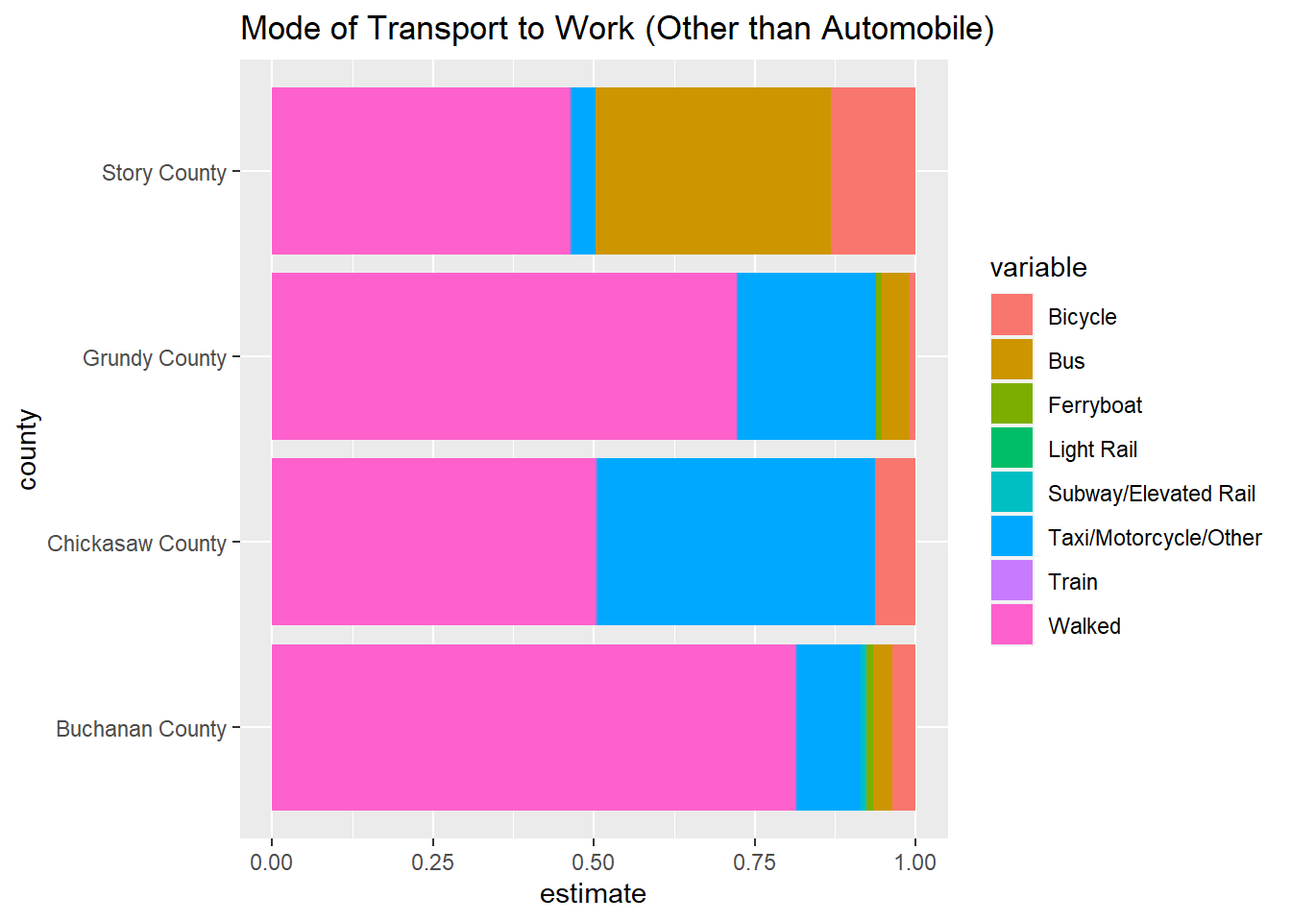
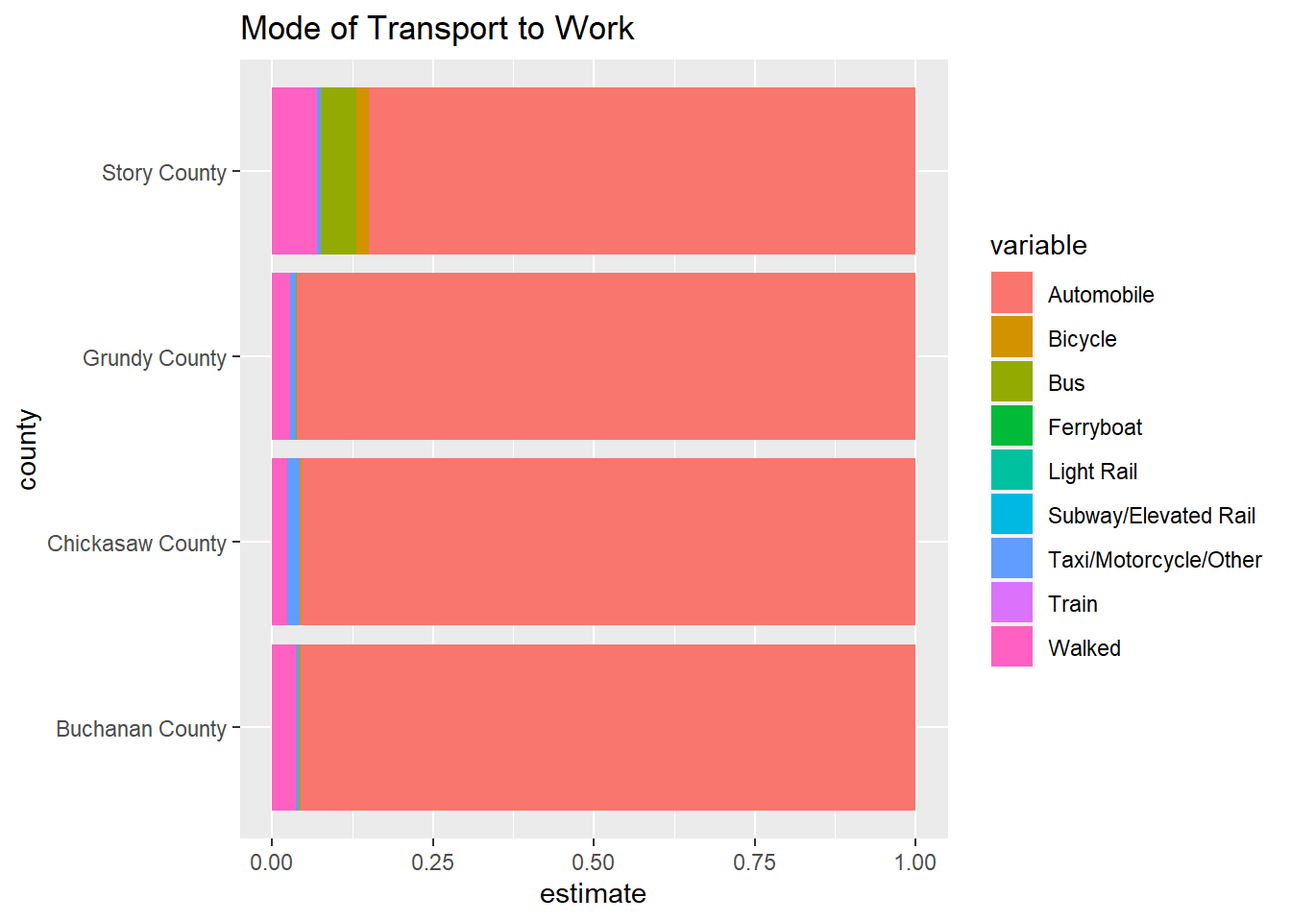
yet another commit

diff --git a/docs/posts/Aaron-Null-DSPG-Week-2/Week-One.html b/docs/posts/Aaron-Null-DSPG-Week-2/Week-One.html
@@ -476,301 +476,68 @@ This message is displayed once per session.</code></pre>
 <p>This table shows the reported Hispanic/Latino population for 2020 for each of the 4 counties, along with percentages.</p>
 <p>I decided to turn my attention to Iowa at large and look at poverty rates.</p>
 <div class="cell">
-<div class="sourceCode cell-code" id="cb36"><pre class="sourceCode r code-with-copy"><code class="sourceCode r"><span id="cb36-1"><a href="#cb36-1" aria-hidden="true" tabindex="-1"></a><span class="co"># API Call</span></span>
-<span id="cb36-2"><a href="#cb36-2" aria-hidden="true" tabindex="-1"></a>poverty <span class="ot">&lt;-</span> <span class="fu">get_acs</span>(<span class="at">geography =</span> <span class="st">"block group"</span>,</span>
-<span id="cb36-3"><a href="#cb36-3" aria-hidden="true" tabindex="-1"></a>                       <span class="at">variables =</span> (<span class="st">"Poverty_income_individuals"</span> <span class="ot">=</span> <span class="st">"B17021_002"</span>),</span>
-<span id="cb36-4"><a href="#cb36-4" aria-hidden="true" tabindex="-1"></a>                       <span class="at">state =</span> <span class="st">"IA"</span>,</span>
-<span id="cb36-5"><a href="#cb36-5" aria-hidden="true" tabindex="-1"></a>                       <span class="at">year =</span> <span class="dv">2021</span>,</span>
-<span id="cb36-6"><a href="#cb36-6" aria-hidden="true" tabindex="-1"></a>                       <span class="at">survey =</span> <span class="st">"acs5"</span>,</span>
-<span id="cb36-7"><a href="#cb36-7" aria-hidden="true" tabindex="-1"></a>                       <span class="at">geometry =</span> <span class="cn">TRUE</span>)</span></code><button title="Copy to Clipboard" class="code-copy-button"><i class="bi"></i></button></pre></div>
-<div class="cell-output cell-output-stderr">
-<pre><code>Getting data from the 2017-2021 5-year ACS</code></pre>
-</div>
-<div class="cell-output cell-output-stderr">
-<pre><code>Downloading feature geometry from the Census website.  To cache shapefiles for use in future sessions, set `options(tigris_use_cache = TRUE)`.</code></pre>
-</div>
-<div class="cell-output cell-output-stdout">
-<pre><code>
-  |                                                                            
-  |                                                                      |   0%
-  |                                                                            
-  |=                                                                     |   2%
-  |                                                                            
-  |==                                                                    |   3%
-  |                                                                            
-  |===                                                                   |   5%
-  |                                                                            
-  |=====                                                                 |   6%
-  |                                                                            
-  |=====                                                                 |   7%
-  |                                                                            
-  |======                                                                |   9%
-  |                                                                            
-  |=======                                                               |  10%
-  |                                                                            
-  |========                                                              |  11%
-  |                                                                            
-  |=========                                                             |  12%
-  |                                                                            
-  |==========                                                            |  14%
-  |                                                                            
-  |===========                                                           |  15%
-  |                                                                            
-  |===========                                                           |  16%
-  |                                                                            
-  |============                                                          |  18%
-  |                                                                            
-  |=============                                                         |  19%
-  |                                                                            
-  |==============                                                        |  20%
-  |                                                                            
-  |===============                                                       |  22%
-  |                                                                            
-  |================                                                      |  23%
-  |                                                                            
-  |=================                                                     |  24%
-  |                                                                            
-  |=================                                                     |  25%
-  |                                                                            
-  |==================                                                    |  26%
-  |                                                                            
-  |===================                                                   |  28%
-  |                                                                            
-  |====================                                                  |  28%
-  |                                                                            
-  |=====================                                                 |  30%
-  |                                                                            
-  |======================                                                |  32%
-  |                                                                            
-  |=======================                                               |  32%
-  |                                                                            
-  |========================                                              |  34%
-  |                                                                            
-  |=========================                                             |  35%
-  |                                                                            
-  |=========================                                             |  36%
-  |                                                                            
-  |==========================                                            |  37%
-  |                                                                            
-  |=============================                                         |  41%
-  |                                                                            
-  |==============================                                        |  42%
-  |                                                                            
-  |===============================                                       |  45%
-  |                                                                            
-  |================================                                      |  46%
-  |                                                                            
-  |=================================                                     |  48%
-  |                                                                            
-  |==================================                                    |  48%
-  |                                                                            
-  |==================================                                    |  49%
-  |                                                                            
-  |====================================                                  |  51%
-  |                                                                            
-  |=====================================                                 |  52%
-  |                                                                            
-  |=====================================                                 |  53%
-  |                                                                            
-  |======================================                                |  55%
-  |                                                                            
-  |========================================                              |  57%
-  |                                                                            
-  |=========================================                             |  59%
-  |                                                                            
-  |===========================================                           |  61%
-  |                                                                            
-  |===========================================                           |  62%
-  |                                                                            
-  |============================================                          |  63%
-  |                                                                            
-  |=============================================                         |  65%
-  |                                                                            
-  |==============================================                        |  65%
-  |                                                                            
-  |===============================================                       |  67%
-  |                                                                            
-  |================================================                      |  69%
-  |                                                                            
-  |=================================================                     |  69%
-  |                                                                            
-  |==================================================                    |  71%
-  |                                                                            
-  |===================================================                   |  72%
-  |                                                                            
-  |===================================================                   |  73%
-  |                                                                            
-  |====================================================                  |  74%
-  |                                                                            
-  |=====================================================                 |  75%
-  |                                                                            
-  |======================================================                |  77%
-  |                                                                            
-  |======================================================                |  78%
-  |                                                                            
-  |=========================================================             |  82%
-  |                                                                            
-  |==========================================================            |  83%
-  |                                                                            
-  |===========================================================           |  85%
-  |                                                                            
-  |============================================================          |  85%
-  |                                                                            
-  |============================================================          |  86%
-  |                                                                            
-  |=============================================================         |  88%
-  |                                                                            
-  |===============================================================       |  89%
-  |                                                                            
-  |===============================================================       |  90%
-  |                                                                            
-  |================================================================      |  92%
-  |                                                                            
-  |==================================================================    |  94%
-  |                                                                            
-  |===================================================================   |  96%
-  |                                                                            
-  |====================================================================  |  97%
-  |                                                                            
-  |===================================================================== |  99%
-  |                                                                            
-  |======================================================================| 100%</code></pre>
-</div>
-<div class="sourceCode cell-code" id="cb40"><pre class="sourceCode r code-with-copy"><code class="sourceCode r"><span id="cb40-1"><a href="#cb40-1" aria-hidden="true" tabindex="-1"></a><span class="co"># Plot</span></span>
-<span id="cb40-2"><a href="#cb40-2" aria-hidden="true" tabindex="-1"></a><span class="fu">ggplot</span>(poverty) <span class="sc">+</span></span>
-<span id="cb40-3"><a href="#cb40-3" aria-hidden="true" tabindex="-1"></a>  <span class="fu">geom_sf</span>(<span class="fu">aes</span>(<span class="at">fill =</span> estimate)) <span class="sc">+</span> <span class="co"># Fill the counties by population density</span></span>
-<span id="cb40-4"><a href="#cb40-4" aria-hidden="true" tabindex="-1"></a>  <span class="fu">scale_fill_distiller</span>(<span class="at">palette =</span> <span class="st">"YlOrBr"</span>) <span class="sc">+</span> <span class="co"># Use a color-blind friendly palette</span></span>
-<span id="cb40-5"><a href="#cb40-5" aria-hidden="true" tabindex="-1"></a>  <span class="fu">labs</span>(<span class="at">title =</span> <span class="st">"Individuals Below the Poverty Line in Iowa"</span>,</span>
-<span id="cb40-6"><a href="#cb40-6" aria-hidden="true" tabindex="-1"></a>       <span class="at">subtitle =</span> <span class="st">"Source: American Community Survey 2021"</span>,</span>
-<span id="cb40-7"><a href="#cb40-7" aria-hidden="true" tabindex="-1"></a>       <span class="at">fill =</span> <span class="st">"People per Block Group"</span>) <span class="sc">+</span> <span class="co"># Add labels</span></span>
-<span id="cb40-8"><a href="#cb40-8" aria-hidden="true" tabindex="-1"></a>  <span class="fu">theme_minimal</span>()</span></code><button title="Copy to Clipboard" class="code-copy-button"><i class="bi"></i></button></pre></div>
+<div class="sourceCode cell-code" id="cb36"><pre class="sourceCode r code-with-copy"><code class="sourceCode r"><span id="cb36-1"><a href="#cb36-1" aria-hidden="true" tabindex="-1"></a><span class="co"># Plot</span></span>
+<span id="cb36-2"><a href="#cb36-2" aria-hidden="true" tabindex="-1"></a><span class="fu">ggplot</span>(poverty) <span class="sc">+</span></span>
+<span id="cb36-3"><a href="#cb36-3" aria-hidden="true" tabindex="-1"></a>  <span class="fu">geom_sf</span>(<span class="fu">aes</span>(<span class="at">fill =</span> estimate)) <span class="sc">+</span> <span class="co"># Fill the counties by population density</span></span>
+<span id="cb36-4"><a href="#cb36-4" aria-hidden="true" tabindex="-1"></a>  <span class="fu">scale_fill_distiller</span>(<span class="at">palette =</span> <span class="st">"YlOrBr"</span>) <span class="sc">+</span> <span class="co"># Use a color-blind friendly palette</span></span>
+<span id="cb36-5"><a href="#cb36-5" aria-hidden="true" tabindex="-1"></a>  <span class="fu">labs</span>(<span class="at">title =</span> <span class="st">"Individuals Below the Poverty Line in Iowa"</span>,</span>
+<span id="cb36-6"><a href="#cb36-6" aria-hidden="true" tabindex="-1"></a>       <span class="at">subtitle =</span> <span class="st">"Source: American Community Survey 2021"</span>,</span>
+<span id="cb36-7"><a href="#cb36-7" aria-hidden="true" tabindex="-1"></a>       <span class="at">fill =</span> <span class="st">"People per Block Group"</span>) <span class="sc">+</span> <span class="co"># Add labels</span></span>
+<span id="cb36-8"><a href="#cb36-8" aria-hidden="true" tabindex="-1"></a>  <span class="fu">theme_minimal</span>()</span></code><button title="Copy to Clipboard" class="code-copy-button"><i class="bi"></i></button></pre></div>
 <div class="cell-output-display">
-<p><img src="Week-One_files/figure-html/unnamed-chunk-14-1.png" class="img-fluid" width="672"></p>
+<p><img src="Week-One_files/figure-html/unnamed-chunk-15-1.png" class="img-fluid" width="672"></p>
 </div>
 </div>
 <p>This is a plot of the number of individuals per block group who earned low enough wages over 12 months to place them below the poverty line in 2021. The rate differs more or less uniformly around the state save for a few key regions.</p>
 <p>Finally, I looked at the reported mode of transport to work for each of the four counties. A similar stacked proportional bar graph was made to the ones for language and race above.</p>
 <div class="cell">
-<div class="sourceCode cell-code" id="cb41"><pre class="sourceCode r code-with-copy"><code class="sourceCode r"><span id="cb41-1"><a href="#cb41-1" aria-hidden="true" tabindex="-1"></a><span class="co"># Compiled variable list for mode of transport</span></span>
-<span id="cb41-2"><a href="#cb41-2" aria-hidden="true" tabindex="-1"></a>transportList <span class="ot">=</span> <span class="fu">c</span>(<span class="st">"Automobile"</span> <span class="ot">=</span> <span class="st">"B08006_002"</span>,<span class="st">"Bus"</span> <span class="ot">=</span> <span class="st">"B08006_009"</span>, <span class="st">"Subway/Elevated Rail"</span> <span class="ot">=</span> <span class="st">"B08006_010"</span>, <span class="st">"Train"</span> <span class="ot">=</span> <span class="st">"B08006_011"</span>,<span class="st">"Light Rail"</span> <span class="ot">=</span> <span class="st">"B08006_012"</span>,<span class="st">"Ferryboat"</span> <span class="ot">=</span> <span class="st">"B08006_013"</span>, <span class="st">"Bicycle"</span> <span class="ot">=</span> <span class="st">"B08006_014"</span>,<span class="st">"Walked"</span> <span class="ot">=</span> <span class="st">"B08006_015"</span>, <span class="st">"Taxi/Motorcycle/Other"</span> <span class="ot">=</span> <span class="st">"B08006_016"</span>)</span>
-<span id="cb41-3"><a href="#cb41-3" aria-hidden="true" tabindex="-1"></a></span>
-<span id="cb41-4"><a href="#cb41-4" aria-hidden="true" tabindex="-1"></a><span class="co"># API Call</span></span>
-<span id="cb41-5"><a href="#cb41-5" aria-hidden="true" tabindex="-1"></a></span>
-<span id="cb41-6"><a href="#cb41-6" aria-hidden="true" tabindex="-1"></a>transport_counties <span class="ot">&lt;-</span> <span class="fu">get_acs</span>(<span class="at">geography =</span> <span class="st">"tract"</span>,</span>
-<span id="cb41-7"><a href="#cb41-7" aria-hidden="true" tabindex="-1"></a>                       <span class="at">variables =</span> transportList,</span>
-<span id="cb41-8"><a href="#cb41-8" aria-hidden="true" tabindex="-1"></a>                       <span class="at">state =</span> <span class="st">"IA"</span>,</span>
-<span id="cb41-9"><a href="#cb41-9" aria-hidden="true" tabindex="-1"></a>                       <span class="at">year =</span> <span class="dv">2021</span>,</span>
-<span id="cb41-10"><a href="#cb41-10" aria-hidden="true" tabindex="-1"></a>                       <span class="at">survey =</span> <span class="st">"acs5"</span>,</span>
-<span id="cb41-11"><a href="#cb41-11" aria-hidden="true" tabindex="-1"></a>                       <span class="at">geometry =</span> <span class="cn">TRUE</span>)</span></code><button title="Copy to Clipboard" class="code-copy-button"><i class="bi"></i></button></pre></div>
+<div class="sourceCode cell-code" id="cb37"><pre class="sourceCode r code-with-copy"><code class="sourceCode r"><span id="cb37-1"><a href="#cb37-1" aria-hidden="true" tabindex="-1"></a><span class="co"># Compiled variable list for mode of transport</span></span>
+<span id="cb37-2"><a href="#cb37-2" aria-hidden="true" tabindex="-1"></a>transportList <span class="ot">=</span> <span class="fu">c</span>(<span class="st">"Automobile"</span> <span class="ot">=</span> <span class="st">"B08006_002"</span>,<span class="st">"Bus"</span> <span class="ot">=</span> <span class="st">"B08006_009"</span>, <span class="st">"Subway/Elevated Rail"</span> <span class="ot">=</span> <span class="st">"B08006_010"</span>, <span class="st">"Train"</span> <span class="ot">=</span> <span class="st">"B08006_011"</span>,<span class="st">"Light Rail"</span> <span class="ot">=</span> <span class="st">"B08006_012"</span>,<span class="st">"Ferryboat"</span> <span class="ot">=</span> <span class="st">"B08006_013"</span>, <span class="st">"Bicycle"</span> <span class="ot">=</span> <span class="st">"B08006_014"</span>,<span class="st">"Walked"</span> <span class="ot">=</span> <span class="st">"B08006_015"</span>, <span class="st">"Taxi/Motorcycle/Other"</span> <span class="ot">=</span> <span class="st">"B08006_016"</span>)</span>
+<span id="cb37-3"><a href="#cb37-3" aria-hidden="true" tabindex="-1"></a></span>
+<span id="cb37-4"><a href="#cb37-4" aria-hidden="true" tabindex="-1"></a><span class="co"># API Call</span></span>
+<span id="cb37-5"><a href="#cb37-5" aria-hidden="true" tabindex="-1"></a></span>
+<span id="cb37-6"><a href="#cb37-6" aria-hidden="true" tabindex="-1"></a>transport_counties <span class="ot">&lt;-</span> <span class="fu">get_acs</span>(<span class="at">geography =</span> <span class="st">"tract"</span>,</span>
+<span id="cb37-7"><a href="#cb37-7" aria-hidden="true" tabindex="-1"></a>                       <span class="at">variables =</span> transportList,</span>
+<span id="cb37-8"><a href="#cb37-8" aria-hidden="true" tabindex="-1"></a>                       <span class="at">state =</span> <span class="st">"IA"</span>,</span>
+<span id="cb37-9"><a href="#cb37-9" aria-hidden="true" tabindex="-1"></a>                       <span class="at">year =</span> <span class="dv">2021</span>,</span>
+<span id="cb37-10"><a href="#cb37-10" aria-hidden="true" tabindex="-1"></a>                       <span class="at">survey =</span> <span class="st">"acs5"</span>)</span></code><button title="Copy to Clipboard" class="code-copy-button"><i class="bi"></i></button></pre></div>
 <div class="cell-output cell-output-stderr">
 <pre><code>Getting data from the 2017-2021 5-year ACS</code></pre>
 </div>
-<div class="cell-output cell-output-stderr">
-<pre><code>Downloading feature geometry from the Census website.  To cache shapefiles for use in future sessions, set `options(tigris_use_cache = TRUE)`.</code></pre>
-</div>
-<div class="cell-output cell-output-stdout">
-<pre><code>
-  |                                                                            
-  |                                                                      |   0%
-  |                                                                            
-  |==                                                                    |   3%
-  |                                                                            
-  |=====                                                                 |   6%
-  |                                                                            
-  |======                                                                |   9%
-  |                                                                            
-  |=========                                                             |  13%
-  |                                                                            
-  |============                                                          |  17%
-  |                                                                            
-  |==============                                                        |  19%
-  |                                                                            
-  |================                                                      |  23%
-  |                                                                            
-  |==================                                                    |  25%
-  |                                                                            
-  |====================                                                  |  28%
-  |                                                                            
-  |=====================                                                 |  30%
-  |                                                                            
-  |=======================                                               |  32%
-  |                                                                            
-  |=======================                                               |  33%
-  |                                                                            
-  |=========================                                             |  36%
-  |                                                                            
-  |===========================                                           |  38%
-  |                                                                            
-  |============================                                          |  40%
-  |                                                                            
-  |==============================                                        |  42%
-  |                                                                            
-  |================================                                      |  45%
-  |                                                                            
-  |=================================                                     |  46%
-  |                                                                            
-  |====================================                                  |  52%
-  |                                                                            
-  |=======================================                               |  56%
-  |                                                                            
-  |=========================================                             |  59%
-  |                                                                            
-  |===========================================                           |  61%
-  |                                                                            
-  |============================================                          |  63%
-  |                                                                            
-  |=============================================                         |  65%
-  |                                                                            
-  |===============================================                       |  67%
-  |                                                                            
-  |=================================================                     |  70%
-  |                                                                            
-  |====================================================                  |  74%
-  |                                                                            
-  |========================================================              |  80%
-  |                                                                            
-  |=========================================================             |  81%
-  |                                                                            
-  |===============================================================       |  91%
-  |                                                                            
-  |====================================================================  |  97%
-  |                                                                            
-  |======================================================================| 100%</code></pre>
-</div>
-<div class="sourceCode cell-code" id="cb45"><pre class="sourceCode r code-with-copy"><code class="sourceCode r"><span id="cb45-1"><a href="#cb45-1" aria-hidden="true" tabindex="-1"></a><span class="co"># Subset for relevant counties using str_detect()</span></span>
-<span id="cb45-2"><a href="#cb45-2" aria-hidden="true" tabindex="-1"></a>transport_counties2 <span class="ot">&lt;-</span> transport_counties <span class="sc">%&gt;%</span></span>
-<span id="cb45-3"><a href="#cb45-3" aria-hidden="true" tabindex="-1"></a>  <span class="fu">filter</span>(<span class="fu">str_detect</span>(NAME, <span class="st">"Buchanan|Chickasaw|Grundy|Story"</span>))</span>
-<span id="cb45-4"><a href="#cb45-4" aria-hidden="true" tabindex="-1"></a></span>
-<span id="cb45-5"><a href="#cb45-5" aria-hidden="true" tabindex="-1"></a><span class="co"># Mutating 'county' column and labeling for each tract observation</span></span>
-<span id="cb45-6"><a href="#cb45-6" aria-hidden="true" tabindex="-1"></a>transport_small <span class="ot">&lt;-</span> transport_counties2 <span class="sc">%&gt;%</span></span>
-<span id="cb45-7"><a href="#cb45-7" aria-hidden="true" tabindex="-1"></a>  <span class="fu">mutate</span>(<span class="at">county =</span> <span class="fu">ifelse</span>(<span class="fu">str_detect</span>(NAME, <span class="st">"Buchanan"</span>), <span class="st">"Buchanan County"</span>,</span>
-<span id="cb45-8"><a href="#cb45-8" aria-hidden="true" tabindex="-1"></a>                    <span class="fu">ifelse</span>(<span class="fu">str_detect</span>(NAME, <span class="st">"Chickasaw"</span>), <span class="st">"Chickasaw County"</span>,</span>
-<span id="cb45-9"><a href="#cb45-9" aria-hidden="true" tabindex="-1"></a>                      <span class="fu">ifelse</span>(<span class="fu">str_detect</span>(NAME, <span class="st">"Grundy"</span>), <span class="st">"Grundy County"</span>, <span class="st">"Story County"</span>))))</span></code><button title="Copy to Clipboard" class="code-copy-button"><i class="bi"></i></button></pre></div>
+<div class="sourceCode cell-code" id="cb39"><pre class="sourceCode r code-with-copy"><code class="sourceCode r"><span id="cb39-1"><a href="#cb39-1" aria-hidden="true" tabindex="-1"></a><span class="co"># Subset for relevant counties using str_detect()</span></span>
+<span id="cb39-2"><a href="#cb39-2" aria-hidden="true" tabindex="-1"></a>transport_counties2 <span class="ot">&lt;-</span> transport_counties <span class="sc">%&gt;%</span></span>
+<span id="cb39-3"><a href="#cb39-3" aria-hidden="true" tabindex="-1"></a>  <span class="fu">filter</span>(<span class="fu">str_detect</span>(NAME, <span class="st">"Buchanan|Chickasaw|Grundy|Story"</span>))</span>
+<span id="cb39-4"><a href="#cb39-4" aria-hidden="true" tabindex="-1"></a></span>
+<span id="cb39-5"><a href="#cb39-5" aria-hidden="true" tabindex="-1"></a><span class="co"># Mutating 'county' column and labeling for each tract observation</span></span>
+<span id="cb39-6"><a href="#cb39-6" aria-hidden="true" tabindex="-1"></a>transport_small <span class="ot">&lt;-</span> transport_counties2 <span class="sc">%&gt;%</span></span>
+<span id="cb39-7"><a href="#cb39-7" aria-hidden="true" tabindex="-1"></a>  <span class="fu">mutate</span>(<span class="at">county =</span> <span class="fu">ifelse</span>(<span class="fu">str_detect</span>(NAME, <span class="st">"Buchanan"</span>), <span class="st">"Buchanan County"</span>,</span>
+<span id="cb39-8"><a href="#cb39-8" aria-hidden="true" tabindex="-1"></a>                    <span class="fu">ifelse</span>(<span class="fu">str_detect</span>(NAME, <span class="st">"Chickasaw"</span>), <span class="st">"Chickasaw County"</span>,</span>
+<span id="cb39-9"><a href="#cb39-9" aria-hidden="true" tabindex="-1"></a>                      <span class="fu">ifelse</span>(<span class="fu">str_detect</span>(NAME, <span class="st">"Grundy"</span>), <span class="st">"Grundy County"</span>, <span class="st">"Story County"</span>))))</span></code><button title="Copy to Clipboard" class="code-copy-button"><i class="bi"></i></button></pre></div>
 </div>
 <div class="cell">
-<div class="sourceCode cell-code" id="cb46"><pre class="sourceCode r code-with-copy"><code class="sourceCode r"><span id="cb46-1"><a href="#cb46-1" aria-hidden="true" tabindex="-1"></a>plot_1 <span class="ot">&lt;-</span> transport_small <span class="sc">%&gt;%</span></span>
-<span id="cb46-2"><a href="#cb46-2" aria-hidden="true" tabindex="-1"></a>  <span class="fu">ggplot</span>(<span class="fu">aes</span>(<span class="at">fill =</span> variable, <span class="at">x =</span> county, <span class="at">y =</span> estimate)) <span class="sc">+</span></span>
-<span id="cb46-3"><a href="#cb46-3" aria-hidden="true" tabindex="-1"></a>  <span class="fu">geom_bar</span>(<span class="at">stat =</span> <span class="st">"identity"</span>, <span class="at">position =</span> <span class="st">"fill"</span>) <span class="sc">+</span></span>
-<span id="cb46-4"><a href="#cb46-4" aria-hidden="true" tabindex="-1"></a>  <span class="fu">coord_flip</span>() <span class="sc">+</span> </span>
-<span id="cb46-5"><a href="#cb46-5" aria-hidden="true" tabindex="-1"></a>  <span class="fu">ggtitle</span>(<span class="st">"Mode of Transport to Work"</span>)</span>
-<span id="cb46-6"><a href="#cb46-6" aria-hidden="true" tabindex="-1"></a></span>
-<span id="cb46-7"><a href="#cb46-7" aria-hidden="true" tabindex="-1"></a>plot_2 <span class="ot">&lt;-</span> transport_small <span class="sc">%&gt;%</span></span>
-<span id="cb46-8"><a href="#cb46-8" aria-hidden="true" tabindex="-1"></a>  <span class="fu">filter</span>(variable <span class="sc">!=</span> <span class="st">"Automobile"</span>) <span class="sc">%&gt;%</span></span>
-<span id="cb46-9"><a href="#cb46-9" aria-hidden="true" tabindex="-1"></a>  <span class="fu">ggplot</span>(<span class="fu">aes</span>(<span class="at">fill =</span> variable, <span class="at">x =</span> county, <span class="at">y =</span> estimate)) <span class="sc">+</span></span>
-<span id="cb46-10"><a href="#cb46-10" aria-hidden="true" tabindex="-1"></a>  <span class="fu">geom_bar</span>(<span class="at">stat =</span> <span class="st">"identity"</span>, <span class="at">position =</span> <span class="st">"fill"</span>) <span class="sc">+</span></span>
-<span id="cb46-11"><a href="#cb46-11" aria-hidden="true" tabindex="-1"></a>  <span class="fu">coord_flip</span>() <span class="sc">+</span></span>
-<span id="cb46-12"><a href="#cb46-12" aria-hidden="true" tabindex="-1"></a>  <span class="fu">ggtitle</span>(<span class="st">"Mode of Transport to Work (Other than Automobile)"</span>)</span>
-<span id="cb46-13"><a href="#cb46-13" aria-hidden="true" tabindex="-1"></a></span>
-<span id="cb46-14"><a href="#cb46-14" aria-hidden="true" tabindex="-1"></a>plot_1</span></code><button title="Copy to Clipboard" class="code-copy-button"><i class="bi"></i></button></pre></div>
+<div class="sourceCode cell-code" id="cb40"><pre class="sourceCode r code-with-copy"><code class="sourceCode r"><span id="cb40-1"><a href="#cb40-1" aria-hidden="true" tabindex="-1"></a>plot_1 <span class="ot">&lt;-</span> transport_small <span class="sc">%&gt;%</span></span>
+<span id="cb40-2"><a href="#cb40-2" aria-hidden="true" tabindex="-1"></a>  <span class="fu">ggplot</span>(<span class="fu">aes</span>(<span class="at">fill =</span> variable, <span class="at">x =</span> county, <span class="at">y =</span> estimate)) <span class="sc">+</span></span>
+<span id="cb40-3"><a href="#cb40-3" aria-hidden="true" tabindex="-1"></a>  <span class="fu">geom_bar</span>(<span class="at">stat =</span> <span class="st">"identity"</span>, <span class="at">position =</span> <span class="st">"fill"</span>) <span class="sc">+</span></span>
+<span id="cb40-4"><a href="#cb40-4" aria-hidden="true" tabindex="-1"></a>  <span class="fu">coord_flip</span>() <span class="sc">+</span> </span>
+<span id="cb40-5"><a href="#cb40-5" aria-hidden="true" tabindex="-1"></a>  <span class="fu">ggtitle</span>(<span class="st">"Mode of Transport to Work"</span>)</span>
+<span id="cb40-6"><a href="#cb40-6" aria-hidden="true" tabindex="-1"></a></span>
+<span id="cb40-7"><a href="#cb40-7" aria-hidden="true" tabindex="-1"></a>plot_2 <span class="ot">&lt;-</span> transport_small <span class="sc">%&gt;%</span></span>
+<span id="cb40-8"><a href="#cb40-8" aria-hidden="true" tabindex="-1"></a>  <span class="fu">filter</span>(variable <span class="sc">!=</span> <span class="st">"Automobile"</span>) <span class="sc">%&gt;%</span></span>
+<span id="cb40-9"><a href="#cb40-9" aria-hidden="true" tabindex="-1"></a>  <span class="fu">ggplot</span>(<span class="fu">aes</span>(<span class="at">fill =</span> variable, <span class="at">x =</span> county, <span class="at">y =</span> estimate)) <span class="sc">+</span></span>
+<span id="cb40-10"><a href="#cb40-10" aria-hidden="true" tabindex="-1"></a>  <span class="fu">geom_bar</span>(<span class="at">stat =</span> <span class="st">"identity"</span>, <span class="at">position =</span> <span class="st">"fill"</span>) <span class="sc">+</span></span>
+<span id="cb40-11"><a href="#cb40-11" aria-hidden="true" tabindex="-1"></a>  <span class="fu">coord_flip</span>() <span class="sc">+</span></span>
+<span id="cb40-12"><a href="#cb40-12" aria-hidden="true" tabindex="-1"></a>  <span class="fu">ggtitle</span>(<span class="st">"Mode of Transport to Work (Other than Automobile)"</span>)</span>
+<span id="cb40-13"><a href="#cb40-13" aria-hidden="true" tabindex="-1"></a></span>
+<span id="cb40-14"><a href="#cb40-14" aria-hidden="true" tabindex="-1"></a>plot_1</span></code><button title="Copy to Clipboard" class="code-copy-button"><i class="bi"></i></button></pre></div>
 <div class="cell-output-display">
-<p><img src="Week-One_files/figure-html/unnamed-chunk-16-1.png" class="img-fluid" width="672"></p>
+<p><img src="Week-One_files/figure-html/unnamed-chunk-17-1.png" class="img-fluid" width="672"></p>
 </div>
 </div>
 <p>This is a plot of the reported mode of transport to work for each of the 4 counties. Commute by automobile overwhelmingly predominates.</p>
 <div class="cell">
-<div class="sourceCode cell-code" id="cb47"><pre class="sourceCode r code-with-copy"><code class="sourceCode r"><span id="cb47-1"><a href="#cb47-1" aria-hidden="true" tabindex="-1"></a>plot_2</span></code><button title="Copy to Clipboard" class="code-copy-button"><i class="bi"></i></button></pre></div>
+<div class="sourceCode cell-code" id="cb41"><pre class="sourceCode r code-with-copy"><code class="sourceCode r"><span id="cb41-1"><a href="#cb41-1" aria-hidden="true" tabindex="-1"></a>plot_2</span></code><button title="Copy to Clipboard" class="code-copy-button"><i class="bi"></i></button></pre></div>
 <div class="cell-output-display">
-<p><img src="Week-One_files/figure-html/unnamed-chunk-17-1.png" class="img-fluid" width="672"></p>
+<p><img src="Week-One_files/figure-html/unnamed-chunk-18-1.png" class="img-fluid" width="672"></p>
 </div>
 </div>
 <p>This is a plot of the reported mode of transport for each county with automobile excluded. In two of the counties, “walking” is the majority response.</p>

diff --git a/docs/index.html b/docs/index.html
@@ -164,7 +164,7 @@ ul.task-list li input[type="checkbox"] {
 
 <div class="quarto-listing quarto-listing-container-default" id="listing-listing">
 <div class="list quarto-listing-default">
-<div class="quarto-post image-right" data-index="0" data-categories="Week One" data-listing-date-sort="1684818000000" data-listing-file-modified-sort="1684875262670" data-listing-reading-time-sort="10.68">
+<div class="quarto-post image-right" data-index="0" data-categories="Week One" data-listing-date-sort="1684818000000" data-listing-file-modified-sort="1684876794973" data-listing-reading-time-sort="10.57">
 <div class="body">
 <a href="./posts/Aaron-Null-DSPG-Week-2/Week-One.html">
 <h3 class="no-anchor listing-title">
